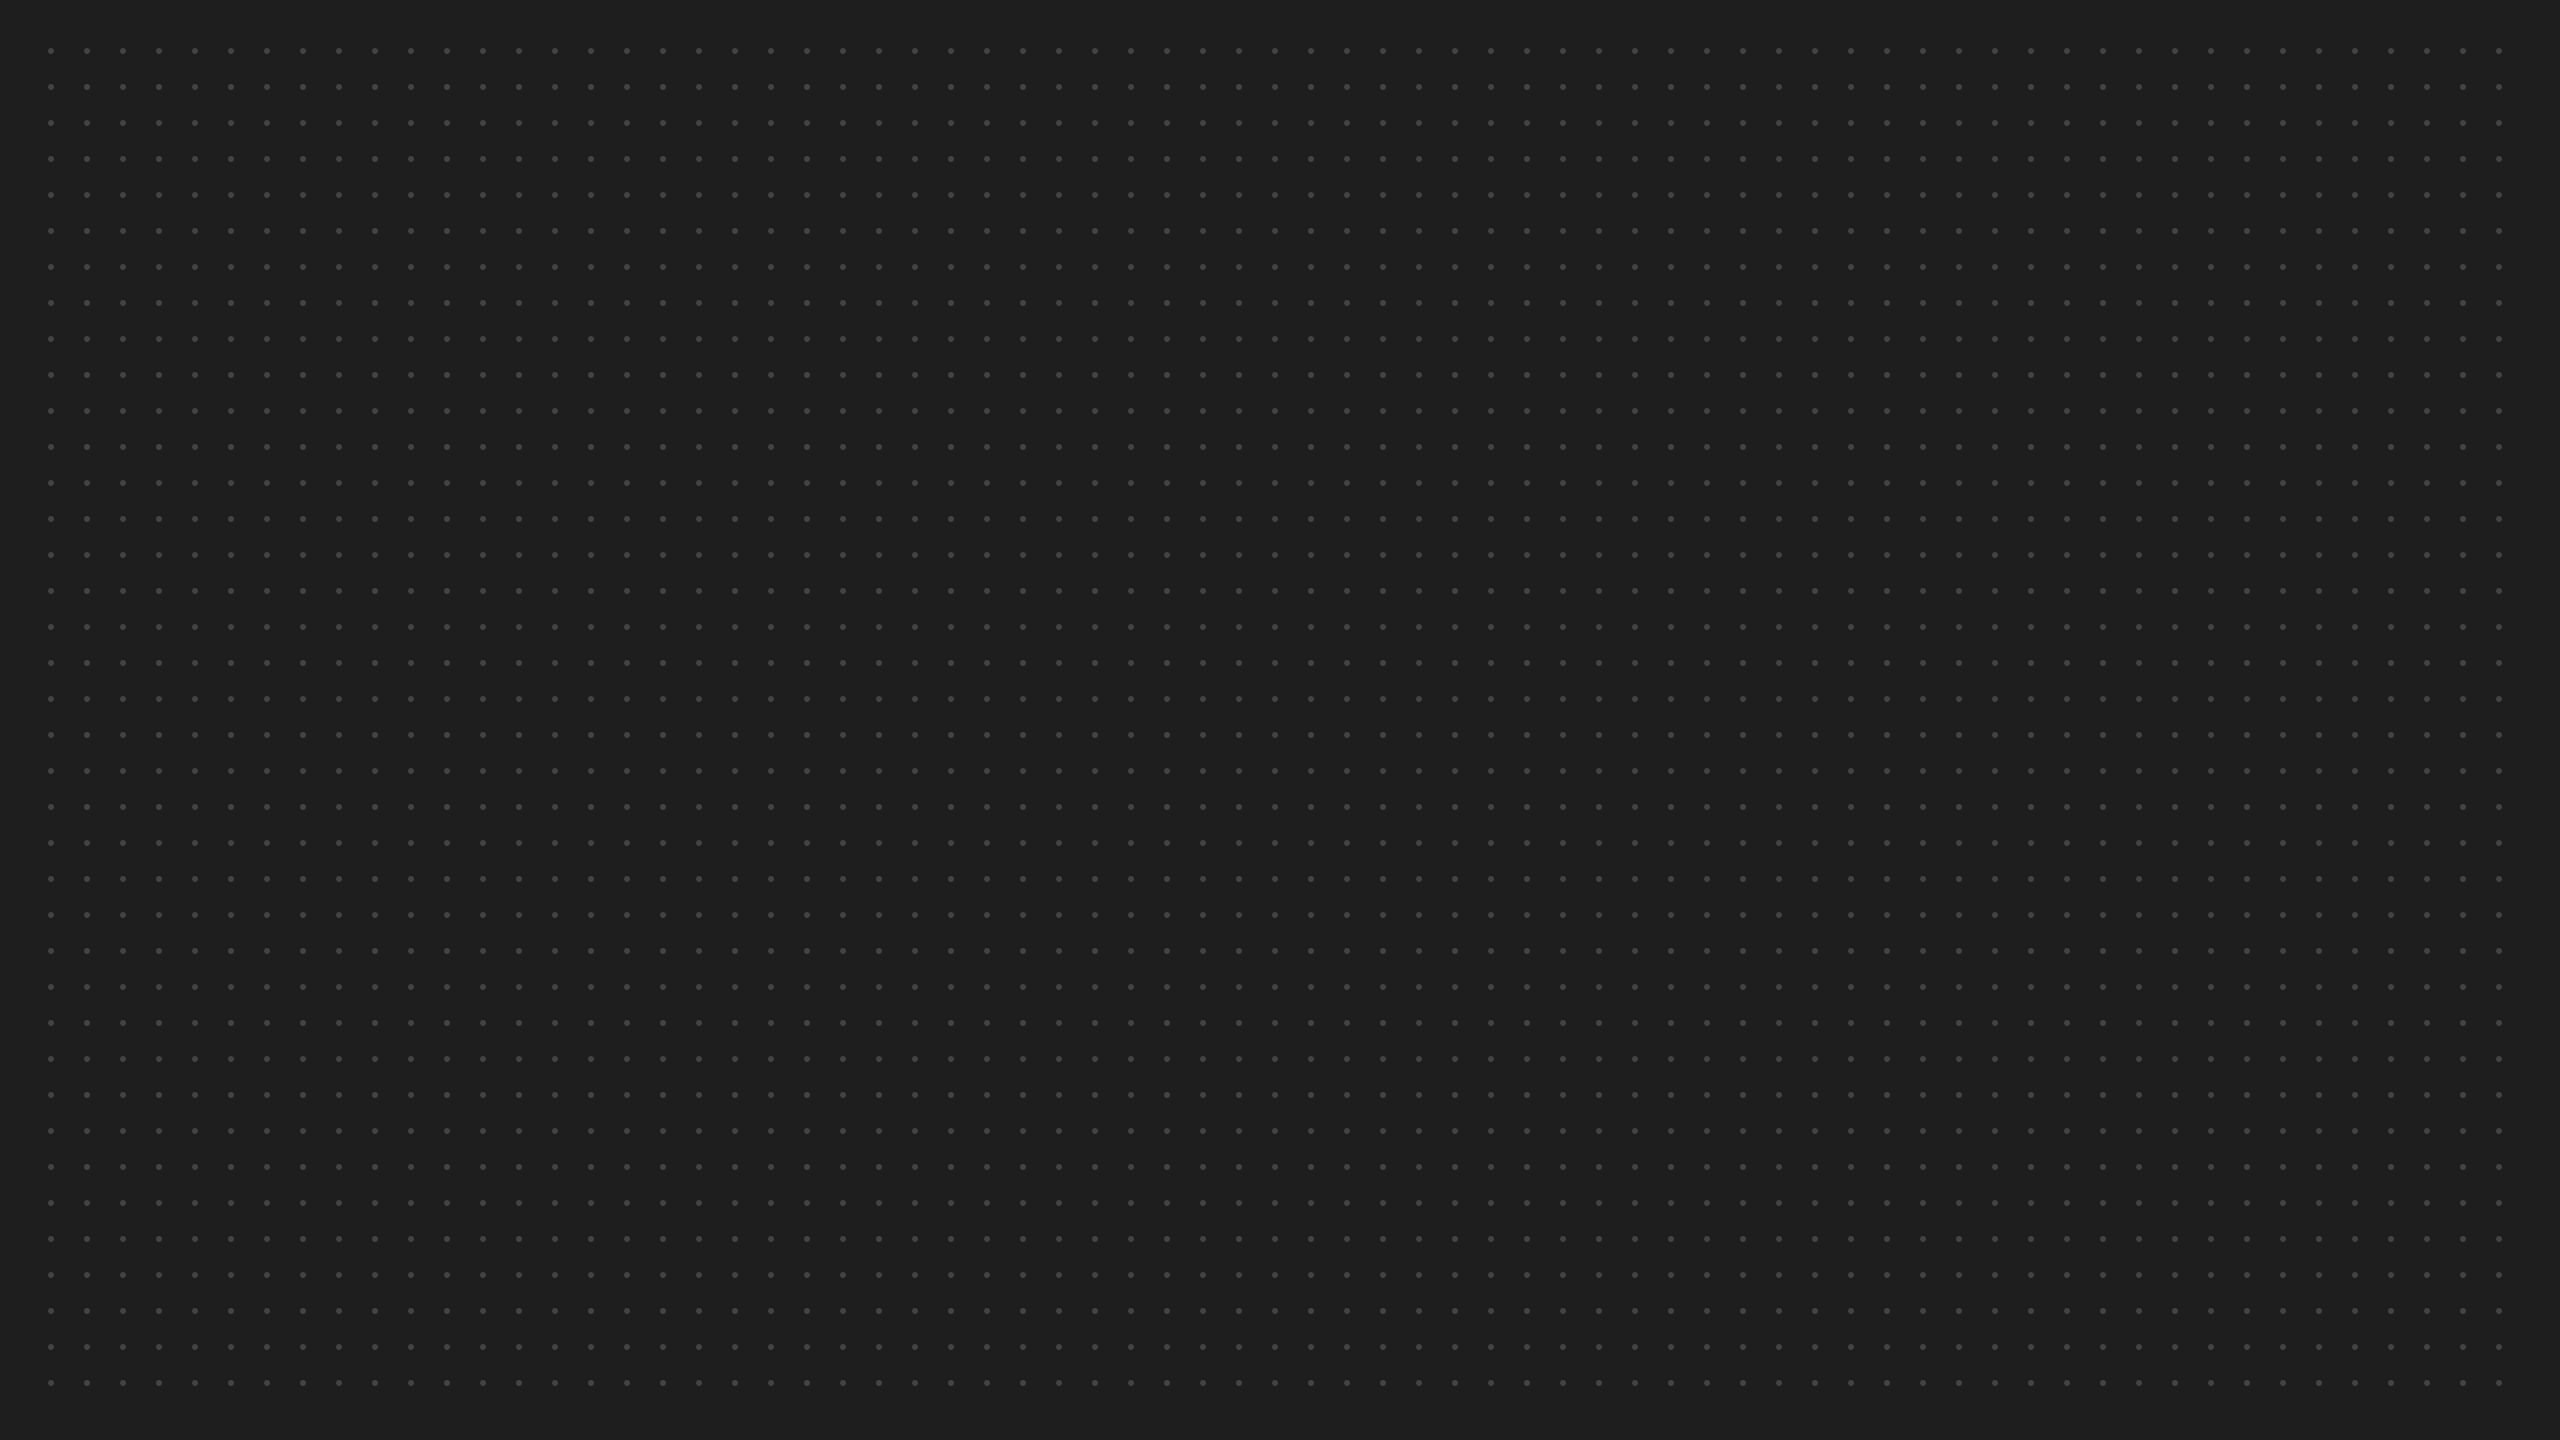
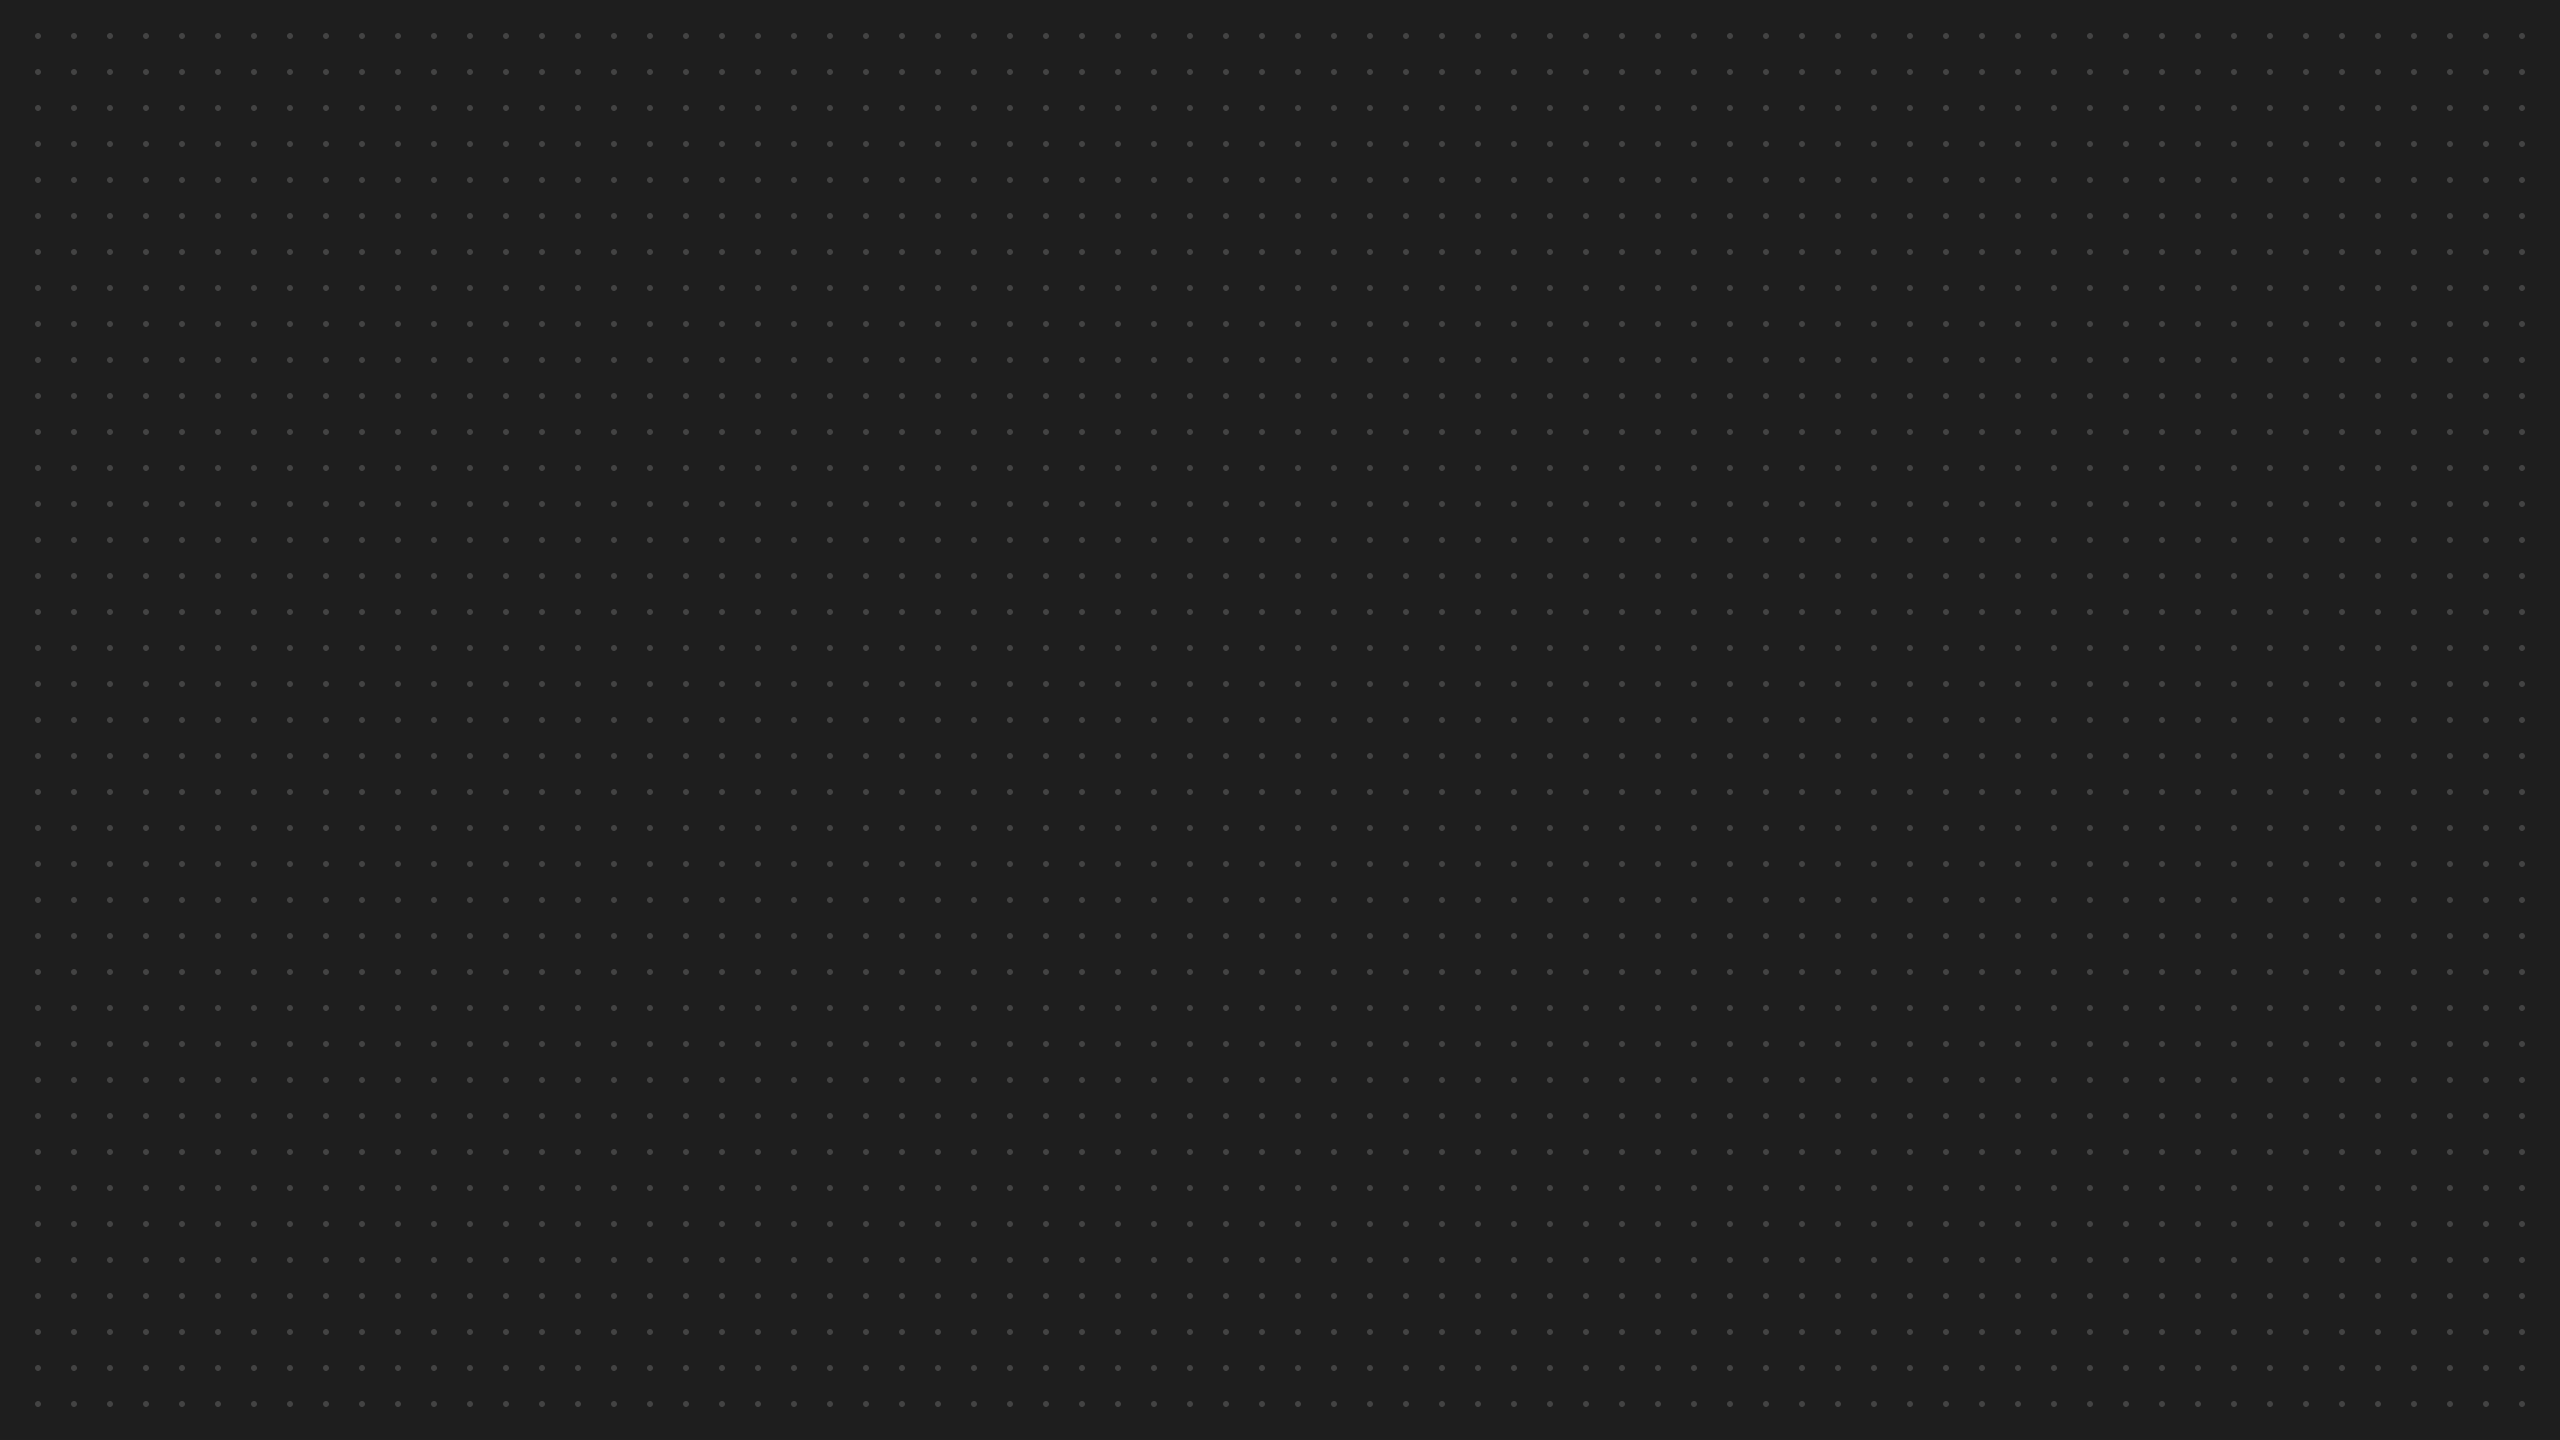
css update

diff --git a/docs/stylesheets/extra.css b/docs/stylesheets/extra.css
@@ -48,10 +48,10 @@
 }
 .md-main{
   background-image: url("../images/background_pattern.png");
-  background-size: auto;
+  background-size: contain;
 }
 
-.md-main__inner md-grid{
+.md-grid{
   max-width: none;
   display: flex;
   width: 100%;
